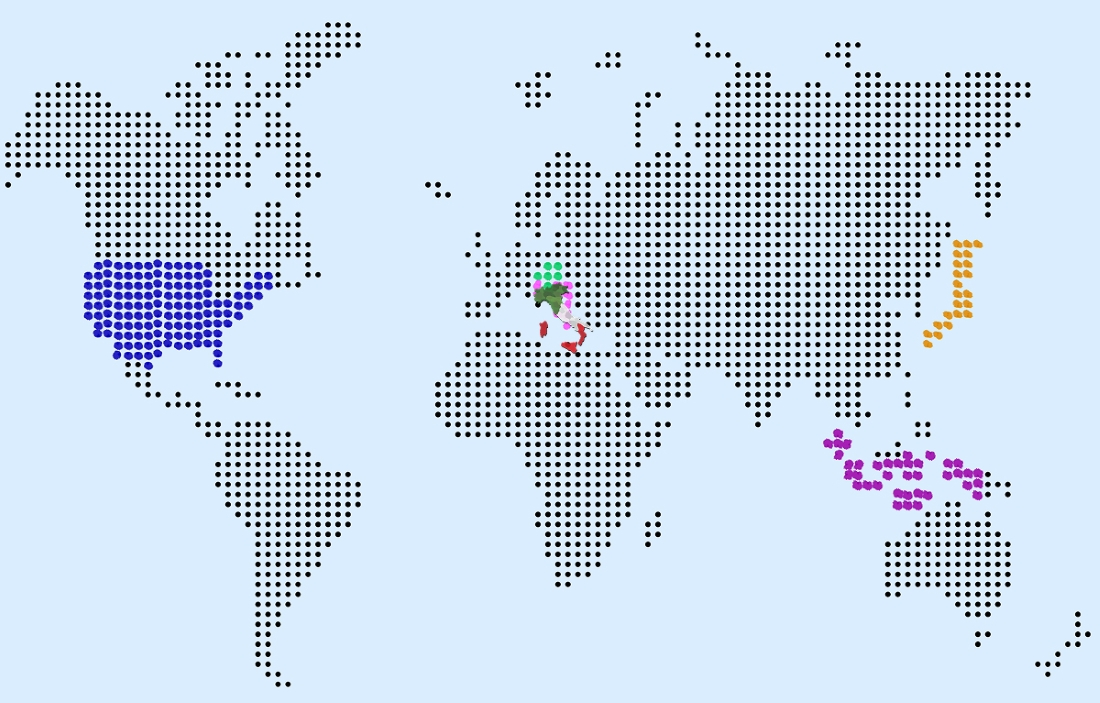
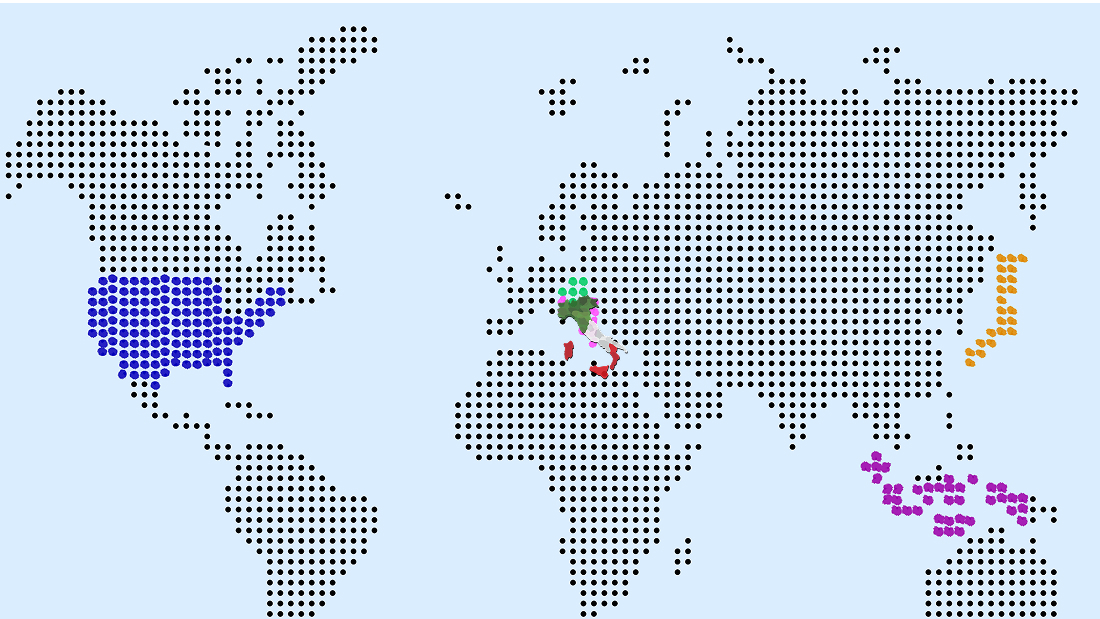
sizing

diff --git a/everypicture/v2-final/index.html b/everypicture/v2-final/index.html
@@ -18,15 +18,15 @@
 
     <section class="worldmap">
     <div class="map-container">
-    <img src="images/worldmap.jpg" alt="World map" usemap="#image-map" width="1200" height="767">
+    <img src="images/worldmap.jpg" alt="World map" usemap="#image-map" width="1100" height="619">
     </div>
 
       <!-- images -->
-      <img src="images/usa.jpg" alt="USA" id="country1" width="1200" height="767">
-      <img src="images/italy.jpg" alt="Italy" id="country2" width="1200" height="767">
-      <img src="images/indo.jpg" alt="Indonesia" id="country3" width="1200" height="767">
-      <img src="images/jap.jpg" alt="Japan" id="country4" width="1200" height="767">
-      <img src="images/switz.jpg" alt="Switzerland" id="country5" width="1200" height="767">
+      <img src="images/usa.jpg" alt="USA" id="country1" width="1100" height="619">
+      <img src="images/italy.jpg" alt="Italy" id="country2" width="1100" height="619">
+      <img src="images/indo.jpg" alt="Indonesia" id="country3" width="1100" height="619">
+      <img src="images/jap.jpg" alt="Japan" id="country4" width="1100" height="619">
+      <img src="images/switz.jpg" alt="Switzerland" id="country5" width="1100" height="619">
 
       <!-- image Map -->
       <map name="image-map">

diff --git a/everypicture/v2-final/styles.css b/everypicture/v2-final/styles.css
@@ -8,7 +8,6 @@ body {
   background-size: cover;
   background-repeat: no-repeat;
   background-position: center;
-  padding-bottom: 40px;
 }
 
 body::before {
@@ -35,7 +34,7 @@ h2{
   position: relative;
   display: block;
   width: 100%;
-  max-width: 1200px;
+  max-width: 1100px;
   margin: 0 auto 100px auto;
   z-index: 1;
   opacity: 90%;
@@ -81,11 +80,11 @@ h2{
 }
 
 /*  positions of the dots  */
-.point[data-popup="japan"] { top: 43%; left: 87%; }
-.point[data-popup="switzerland"] { top: 39%; left: 50%; }
-.point[data-popup="italy"] { top: 42%; left: 51%; }
-.point[data-popup="bali"] { top: 70%; left: 82%; }
-.point[data-popup="nyc"] { top: 43%; left: 22%; }
+.point[data-popup="japan"] { top: 46%; left: 91%; }
+.point[data-popup="switzerland"] { top: 47%; left: 52%; }
+.point[data-popup="italy"] { top: 51%; left: 53%; }
+.point[data-popup="bali"] { top: 81%; left: 82%; }
+.point[data-popup="nyc"] { top: 52%; left: 22%; }
 
 
 /* popups of the dots */
